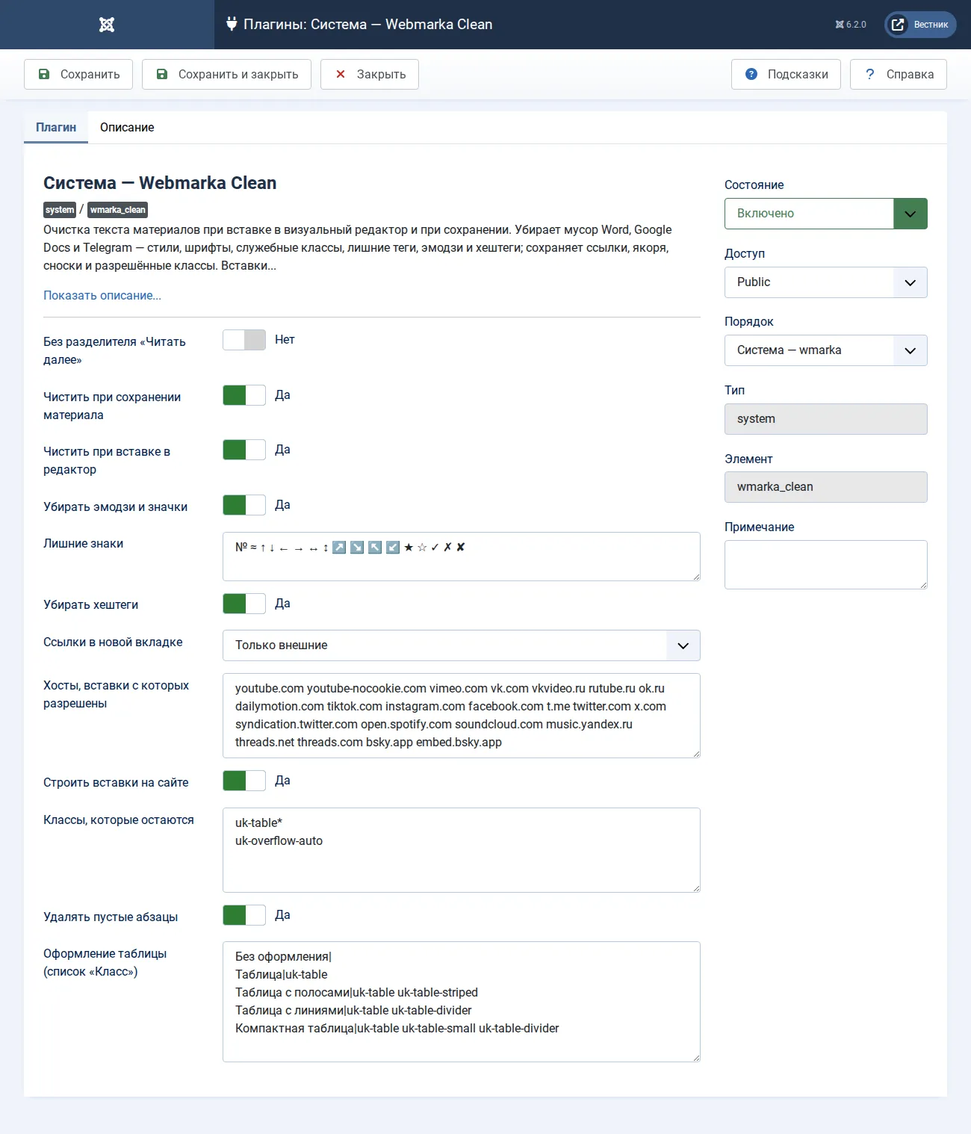
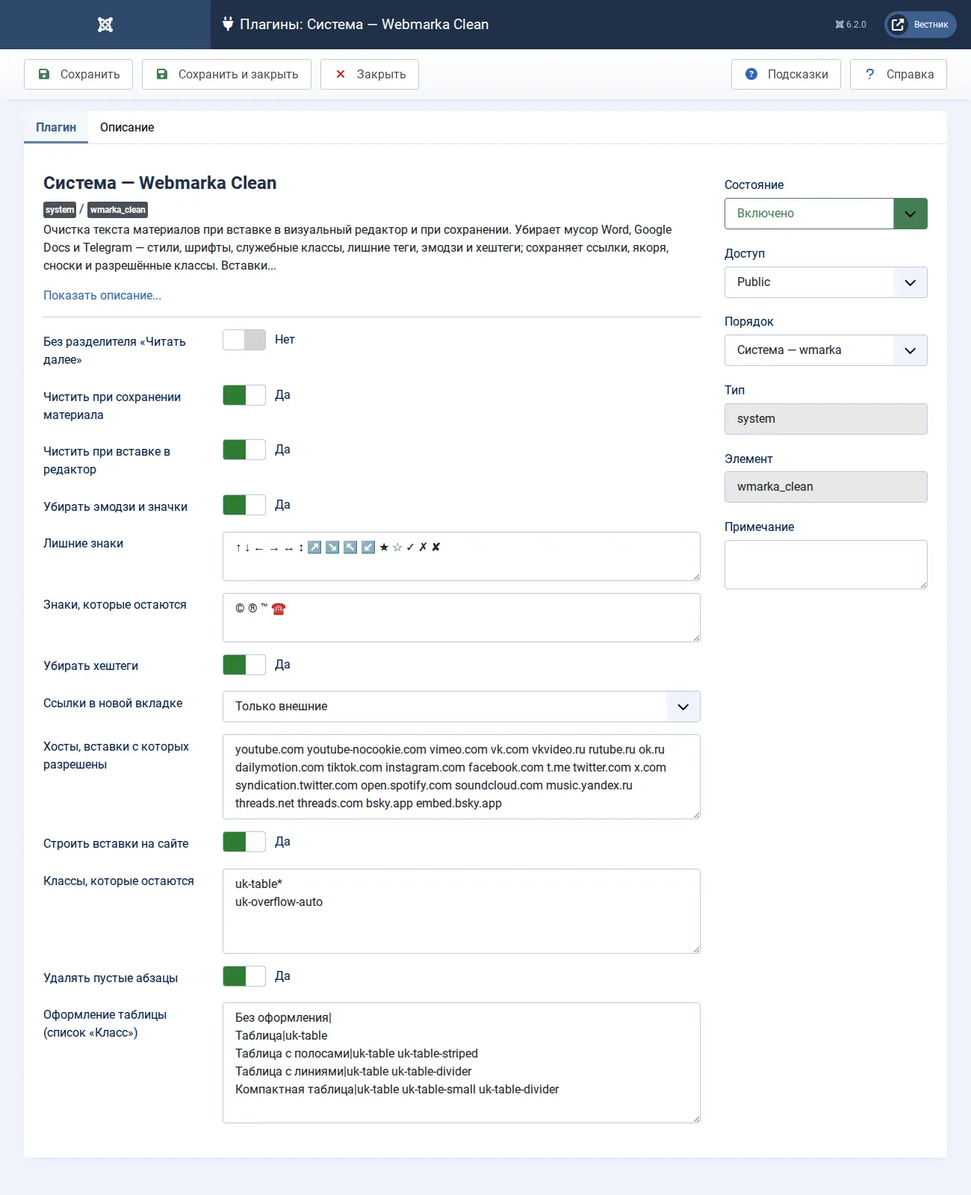
Webmarka Clean 1.0.1: знаки, которые остаются
Новая настройка «Знаки, которые остаются» (по умолчанию © ® ™); № и ≈ больше не в умолчаниях списка лишних знаков, нетронутый список 1.0.0 обновляется сам; очищенное поле «Лишние знаки» значит «только эмодзи».

Проверено на Joomla 6.2.0: тесты очистителя 27 из 27; вставка в TinyMCE с умолчаниями и со своим списком; обновление 1.0.0 → 1.0.1 на «Вестнике» и на стенде The Tenge (их список сохранён).

diff --git a/media/js/paste.js b/media/js/paste.js
@@ -21,7 +21,12 @@
   const embedHosts = String(options.embedHosts || 'youtube.com youtube-nocookie.com vimeo.com vk.com vkvideo.ru rutube.ru ok.ru dailymotion.com tiktok.com instagram.com facebook.com t.me twitter.com x.com syndication.twitter.com open.spotify.com soundcloud.com music.yandex.ru threads.net threads.com bsky.app embed.bsky.app')
     .toLowerCase().split(/[\s,]+/).filter(Boolean);
   const SOCIAL = ['twitter-tweet', 'instagram-media', 'tiktok-embed', 'text-post-media', 'bluesky-embed'];
-  const extraSymbols = typeof options.extra === 'string' ? options.extra : '№ ≈ ↑ ↓ ← → ↔ ↕ ↗ ↘ ↖ ↙ ★ ☆ ✓ ✗ ✘';
+  const extraSymbols = typeof options.extra === 'string' ? options.extra : '↑ ↓ ← → ↔ ↕ ↗ ↘ ↖ ↙ ★ ☆ ✓ ✗ ✘';
+  /** Знаки, которые остаются (как WordClean::protect): на время очистки — символ частной области Unicode, потом обратно; «©» → «©» */
+  const KEEP = (typeof options.keepSymbols === 'string' ? options.keepSymbols : '© ® ™')
+    .split(/\s+/).map((t) => t.replace(/[\uFE0E\uFE0F]/g, '')).filter((t, i, a) => t && a.indexOf(t) === i)
+    .sort((a, b) => [...b].length - [...a].length)
+    .map((t, i) => [new RegExp(t.replace(/[.*+?^${}()|[\]\\]/g, '\\$&') + '[\\uFE0E\\uFE0F]?', 'gu'), String.fromCodePoint(0xF0000 + i), t]);
 
   const UNWRAP = new Set(['SPAN', 'FONT', 'CENTER', 'BIG', 'TT', 'NOBR', 'BDO', 'U', 'TG-EMOJI', 'TG-SPOILER']);
   const BLOCK = new Set(['P', 'DIV', 'UL', 'OL', 'LI', 'TABLE', 'BLOCKQUOTE', 'H1', 'H2', 'H3', 'H4', 'H5', 'H6', 'HR', 'PRE', 'FIGURE', 'SECTION', 'ARTICLE', 'ASIDE', 'DL']);
@@ -72,6 +77,7 @@
       return text;
     }
     const orig = text;
+    KEEP.forEach(([re, ph]) => { text = text.replace(re, ph); });
     text = text.replace(EMOJI_RE, '').replace(/[\uFE0E\uFE0F\u200D\u20E3\u{E0020}-\u{E007F}]/gu, '');
     if (EXTRA_RE) {
       text = text.replace(EXTRA_RE, '');
@@ -83,6 +89,7 @@
     if (withMarks && stripHashtags && MARK_RE) {
       text = text.replace(MARK_RE, '');
     }
+    KEEP.forEach(([, ph, t]) => { text = text.split(ph).join(t); });
     if (text === orig) {
       return text;
     }

diff --git a/src/Cleaner/WordClean.php b/src/Cleaner/WordClean.php
@@ -28,7 +28,13 @@ namespace Webmarka\Plugin\System\Clean\Cleaner;
 final class WordClean
 {
     /** Лишние знаки по умолчанию: через пробел; меняется в настройках плагина */
-    public const DEFAULT_EXTRA = '№ ≈ ↑ ↓ ← → ↔ ↕ ↗ ↘ ↖ ↙ ★ ☆ ✓ ✗ ✘';
+    public const DEFAULT_EXTRA = '↑ ↓ ← → ↔ ↕ ↗ ↘ ↖ ↙ ★ ☆ ✓ ✗ ✘';
+
+    /**
+     * Знаки, которые остаются всегда — и как эмодзи, и из списка лишних знаков: через пробел; меняется в настройках плагина.
+     * © ® ™ Unicode считает пиктограммами, а в тексте это знаки авторского права и товарных марок.
+     */
+    public const DEFAULT_KEEP = '© ® ™';
 
     /** Хосты, вставки с которых разрешены (iframe и метки tm-embed): суффикс домена, через пробел */
     public const DEFAULT_EMBED_HOSTS = 'youtube.com youtube-nocookie.com vimeo.com vk.com vkvideo.ru rutube.ru ok.ru dailymotion.com tiktok.com instagram.com facebook.com t.me twitter.com x.com syndication.twitter.com open.spotify.com soundcloud.com music.yandex.ru threads.net threads.com bsky.app embed.bsky.app';
@@ -76,6 +82,9 @@ final class WordClean
     /** @var array{linkMode: string, siteHost: string, embedHosts: string} */
     private array $opt;
 
+    /** Знаки, которые остаются (DEFAULT_KEEP или настройка сайта) */
+    private string $keepSymbols;
+
     /** В этом тексте убирались значки: после снятия тегов подчищаются пробелы у знаков препинания */
     private bool $symbolsSeen = false;
 
@@ -94,7 +103,8 @@ final class WordClean
         array $options = []
     ) {
         // linkMode: all — все ссылки, кроме «#якорь», mailto и tel, открываются в новой вкладке; external — только внешние; off — не трогать
-        $this->opt = $options + ['linkMode' => 'all', 'siteHost' => '', 'embedHosts' => self::DEFAULT_EMBED_HOSTS];
+        $this->opt = $options + ['linkMode' => 'all', 'siteHost' => '', 'embedHosts' => self::DEFAULT_EMBED_HOSTS, 'keepSymbols' => self::DEFAULT_KEEP];
+        $this->keepSymbols = (string) $this->opt['keepSymbols'];
         $this->keep  = array_map(
             static fn (string $g): string => '~^' . str_replace('\*', '[a-z0-9_-]*', preg_quote(trim($g), '~')) . '$~i',
             array_filter(array_map('trim', $keepClasses))
@@ -111,7 +121,7 @@ final class WordClean
         }
 
         if (!str_contains($html, '<')) {
-            return $this->stripEmoji ? trim(self::stripSymbols($html, true, $this->extra, $this->hashtags)) : $html;
+            return $this->stripEmoji ? trim(self::stripSymbols($html, true, $this->extra, $this->hashtags, true, $this->keepSymbols)) : $html;
         }
 
         // 0. вставки соцсетей: iframe разрешённых хостов и виджет Telegram → безопасная метка tm-embed; остальные iframe убираются
@@ -251,6 +261,35 @@ final class WordClean
     }
 
     /**
+     * Знаки из списка «остаются» на время очистки подменяются символами частной области Unicode (U+F0000…), которых не касается ни одно правило,
+     * и потом возвращаются. Вариант эмодзи «©» сводится к самому знаку «©».
+     *
+     * @param   array  $saved  подмены: символ частной области => знак
+     */
+    private static function protect(string $text, string $keep, array &$saved): string
+    {
+        $tokens = [];
+
+        foreach (preg_split('~\s+~u', trim($keep)) ?: [] as $t) {
+            $t = preg_replace('~[\x{FE0E}\x{FE0F}]~u', '', $t) ?? $t;
+
+            if ($t !== '' && !\in_array($t, $tokens, true)) {
+                $tokens[] = $t;
+            }
+        }
+
+        usort($tokens, static fn (string $a, string $b): int => mb_strlen($b) <=> mb_strlen($a));   // длинная последовательность раньше своей части
+
+        foreach ($tokens as $i => $t) {
+            $ph   = mb_chr(0xF0000 + $i, 'UTF-8');
+            $text = preg_replace('~' . preg_quote($t, '~') . '[\x{FE0E}\x{FE0F}]?~u', $ph, $text) ?? $text;
+            $saved[$ph] = $t;
+        }
+
+        return $text;
+    }
+
+    /**
      * Строка без эмодзи и лишних значков. Пробелы вокруг убранного знака сводятся к одному; перед знаками препинания и после открывающих скобок
      * лишний пробел убирается. Строка без изменений возвращается как есть.
      *
@@ -260,14 +299,16 @@ final class WordClean
      * @param   bool    $tails     применять правило «в конце — целиком» к этой строке: верно, когда строка — весь абзац (заголовок, описание); для узла текста
      *                             внутри абзаца решает проход по блокам (hashtagTails), узел не знает, что стоит рядом
      */
-    public static function stripSymbols(string $text, bool $emoji = true, string $extra = self::DEFAULT_EXTRA, bool $hashtags = true, bool $tails = true): string
+    public static function stripSymbols(string $text, bool $emoji = true, string $extra = self::DEFAULT_EXTRA, bool $hashtags = true, bool $tails = true, string $keep = self::DEFAULT_KEEP): string
     {
         if (!$emoji) {
             return $text;
         }
 
-        $orig = $text;
-        $text = preg_replace(self::emojiRegex(), '', $text) ?? $text;
+        $orig  = $text;
+        $saved = [];
+        $text  = self::protect($text, $keep, $saved);
+        $text  = preg_replace(self::emojiRegex(), '', $text) ?? $text;
         $text = preg_replace('~[\x{FE0E}\x{FE0F}\x{200D}\x{20E3}\x{E0020}-\x{E007F}]~u', '', $text) ?? $text;   // селекторы, оставшиеся без эмодзи
 
         $tokens = array_values(array_filter(preg_split('~\s+~u', trim($extra)) ?: [], static fn ($t) => $t !== ''));
@@ -290,6 +331,10 @@ final class WordClean
             $text = preg_replace('~(?<![\p{L}\p{N}_&/])#(?=[\p{L}\p{N}_])~u', '', $text) ?? $text;
         }
 
+        if ($saved) {
+            $text = strtr($text, $saved);
+        }
+
         if ($text === $orig) {
             return $text;
         }
@@ -306,7 +351,7 @@ final class WordClean
     {
         foreach (iterator_to_array($xp->query('.//text()', $root)) as $t) {
             $v = (string) $t->nodeValue;
-            $n = self::stripSymbols($v, true, $this->extra, false);   // хештеги — отдельным проходом по блокам (hashtagTails, hashtagMarks)
+            $n = self::stripSymbols($v, true, $this->extra, false, true, $this->keepSymbols);   // хештеги — отдельным проходом по блокам (hashtagTails, hashtagMarks)
 
             if ($n === $v) {
                 continue;
@@ -1019,7 +1064,7 @@ final class WordClean
                 $val = trim((string) $el->getAttribute($name));
 
                 if ($this->stripEmoji && \in_array($lower, ['alt', 'title'], true) && $val !== '') {
-                    $el->setAttribute($name, trim(self::stripSymbols($val, true, $this->extra, false)));
+                    $el->setAttribute($name, trim(self::stripSymbols($val, true, $this->extra, false, true, $this->keepSymbols)));
                     $val = trim((string) $el->getAttribute($name));
                 }
 

diff --git a/src/Extension/Clean.php b/src/Extension/Clean.php
@@ -64,7 +64,8 @@ final class Clean extends CMSPlugin implements SubscriberInterface
         }
 
         $emoji   = (int) $this->params->get('strip_emoji', 1) === 1;
-        $extra   = (string) $this->params->get('extra_symbols', WordClean::DEFAULT_EXTRA);
+        $extra   = $this->text('extra_symbols', WordClean::DEFAULT_EXTRA);
+        $keep    = $this->text('keep_symbols', WordClean::DEFAULT_KEEP);
         $tags    = (int) $this->params->get('strip_hashtags', 1) === 1;
         $cleaner = new WordClean($this->keep(), (int) $this->params->get('drop_empty_p', 1) === 1, $emoji, $extra, $tags, $this->cleanerOptions());
 
@@ -72,7 +73,7 @@ final class Clean extends CMSPlugin implements SubscriberInterface
         if ($emoji) {
             foreach (['title', 'metadesc'] as $field) {
                 if (isset($item->$field) && \is_string($item->$field) && $item->$field !== '') {
-                    $clean = trim(WordClean::stripSymbols($item->$field, true, $extra, $tags));
+                    $clean = trim(WordClean::stripSymbols($item->$field, true, $extra, $tags, true, $keep));
 
                     if ($clean !== '' || $field === 'metadesc') {
                         $item->$field = $clean;
@@ -124,7 +125,7 @@ final class Clean extends CMSPlugin implements SubscriberInterface
         }
 
         $doc = $app->getDocument();
-        $doc->addScriptOptions('wmarka_clean', ['keep' => $this->keep(), 'tables' => $tables, 'dropEmpty' => (int) $this->params->get('drop_empty_p', 1) === 1, 'emoji' => (int) $this->params->get('strip_emoji', 1) === 1, 'extra' => (string) $this->params->get('extra_symbols', WordClean::DEFAULT_EXTRA), 'hashtags' => (int) $this->params->get('strip_hashtags', 1) === 1] + $this->cleanerOptions());
+        $doc->addScriptOptions('wmarka_clean', ['keep' => $this->keep(), 'tables' => $tables, 'dropEmpty' => (int) $this->params->get('drop_empty_p', 1) === 1, 'emoji' => (int) $this->params->get('strip_emoji', 1) === 1, 'extra' => $this->text('extra_symbols', WordClean::DEFAULT_EXTRA), 'hashtags' => (int) $this->params->get('strip_hashtags', 1) === 1] + $this->cleanerOptions());
         $doc->getWebAssetManager()->registerAndUseScript('plg_system_wmarka_clean.paste', 'plg_system_wmarka_clean/paste.js', [], ['defer' => true]);
     }
 
@@ -169,10 +170,19 @@ final class Clean extends CMSPlugin implements SubscriberInterface
             'linkMode'   => \in_array($mode, ['all', 'external', 'off'], true) ? $mode : 'external',
             'siteHost'   => (string) Uri::getInstance()->getHost(),
             'embedHosts' => trim((string) $this->params->get('embed_hosts', '')) ?: WordClean::DEFAULT_EMBED_HOSTS,
+            'keepSymbols' => $this->text('keep_symbols', WordClean::DEFAULT_KEEP),
         ];
     }
 
     /** @return string[] */
+    /** A text setting as saved: an emptied field stays empty (Registry::get would give the default back). */
+    private function text(string $key, string $default): string
+    {
+        $all = $this->params->toArray();
+
+        return \array_key_exists($key, $all) ? (string) $all[$key] : $default;
+    }
+
     private function keep(): array
     {
         $list = array_values(array_filter(array_map('trim', preg_split('~\R~u', (string) $this->params->get('keep_classes', "uk-table*\nuk-overflow-auto")) ?: [])));

diff --git a/tests/test_cleaner.php b/tests/test_cleaner.php
@@ -39,6 +39,16 @@ foreach ($cases as [$name, $in, $exp]) {
 }
 $check('заголовок без эмодзи', WordClean::stripSymbols('🔥 Курс тенге укрепился ✅', true, WordClean::DEFAULT_EXTRA, true), ['has' => ['Курс тенге укрепился'], 'not' => ['🔥', '✅']]);
 
+$keepAll = '₸ ₽ $ € £ ¥ ₴ ₼ ₾ ₺ ₹ ⃀ № § ° ± × ≈ ‰ ½ ² © ® ™';
+$check('знаки: валюты, №, §, меры, © ® ™ остаются; ☎, эмодзи и ★ уходят', WordClean::stripSymbols($keepAll . ' ☎ 🔥 ★', true, WordClean::DEFAULT_EXTRA, false, false), ['has' => explode(' ', $keepAll), 'not' => ['☎', '🔥', '★']]);
+$check('знаки: «©» становится «©»', WordClean::stripSymbols('Фото © ТАСС', true, WordClean::DEFAULT_EXTRA, false, false), ['has' => ['Фото © ТАСС'], 'not' => ["\u{FE0F}"]]);
+$check('знаки: свой список «остаются» — ☎ ✉ ★', WordClean::stripSymbols('☎ +7 701 000 00 00, ✉ info@site.kz, оценка ★★★★ 🔥', true, WordClean::DEFAULT_EXTRA, false, false, '☎ ✉ ★'), ['has' => ['☎ +7', '✉ info', '★★★★'], 'not' => ['🔥']]);
+$check('знаки: явный список лишних (как у The Tenge) убирает № и ≈, © остаётся', WordClean::stripSymbols('Приказ № 15: рост ≈ 5 %, © ТАСС', true, '№ ≈ ↑', false, false), ['has' => ['Приказ 15', '© ТАСС'], 'not' => ['№', '≈']]);
+$check('знаки: пустой список «остаются» — © уходит', WordClean::stripSymbols('© ТАСС', true, WordClean::DEFAULT_EXTRA, false, false, ''), ['not' => ['©']]);
+$check('знаки: «остаются» сильнее «лишних»', WordClean::stripSymbols('Оценка ★★★', true, '★', false, false, '★'), ['has' => ['★★★']]);
+$c2 = new WordClean(['uk-table*'], true, true, WordClean::DEFAULT_EXTRA, true, ['keepSymbols' => '☎']);
+$check('знаки: настройка доходит до очистки текста', $c2->clean('<p>☎ 8 800 000 00 00 🔥</p>'), ['has' => ['☎ 8 800'], 'not' => ['🔥']]);
+
 [$html] = Renderer::render($c->clean('<iframe width="560" height="315" src="https://www.youtube.com/embed/abc123"></iframe>'), WordClean::DEFAULT_EMBED_HOSTS);
 $check('сайт: метка YouTube → iframe', $html, ['has' => ['<iframe src="https://www.youtube.com/embed/abc123"', 'aspect-ratio:560 / 315', 'loading="lazy"'], 'not' => ['tm-embed']]);
 [$html] = Renderer::render($c->clean('<script async src="https://telegram.org/js/telegram-widget.js?22" data-telegram-post="durov/123"></script>'), WordClean::DEFAULT_EMBED_HOSTS);

diff --git a/script.php b/script.php
@@ -18,6 +18,10 @@ use Joomla\Database\DatabaseInterface;
  */
 class PlgSystemWmarka_cleanInstallerScript
 {
+    /** The «extra symbols» default of 1.0.0 and the one since 1.0.1 (№ and ≈ are no longer removed by default). */
+    private const OLD_EXTRA = '№ ≈ ↑ ↓ ← → ↔ ↕ ↗ ↘ ↖ ↙ ★ ☆ ✓ ✗ ✘';
+    private const NEW_EXTRA = '↑ ↓ ← → ↔ ↕ ↗ ↘ ↖ ↙ ★ ☆ ✓ ✗ ✘';
+
     private const KEYS = ['merge_readmore', 'enabled_save', 'enabled_paste', 'strip_emoji', 'extra_symbols', 'strip_hashtags',
         'link_target', 'embed_hosts', 'keep_classes', 'drop_empty_p', 'table_classes'];
 
@@ -34,7 +38,7 @@ class PlgSystemWmarka_cleanInstallerScript
 
     public function postflight($type, $parent): void
     {
-        if ($type !== 'install') {
+        if ($type !== 'install' && $type !== 'update') {
             return;
         }
 
@@ -53,6 +57,21 @@ class PlgSystemWmarka_cleanInstallerScript
         $self = $find('wmarka_clean');
 
         if (!$self) {
+            return;
+        }
+
+        if ($type === 'update') {
+            // The 1.0.0 default saved on install moves to the new default; a list someone changed, or one carried over from tengeclean, stays.
+            $params = json_decode((string) $self->params, true) ?: [];
+
+            if (($params['extra_symbols'] ?? null) === self::OLD_EXTRA && !$find('tengeclean')) {
+                $params['extra_symbols'] = self::NEW_EXTRA;
+                $json = json_encode($params, JSON_UNESCAPED_UNICODE | JSON_UNESCAPED_SLASHES);
+                $db->setQuery($db->createQuery()->update($db->quoteName('#__extensions'))
+                    ->set($db->quoteName('params') . ' = ' . $db->quote($json))
+                    ->where($db->quoteName('extension_id') . ' = ' . (int) $self->extension_id))->execute();
+            }
+
             return;
         }
 

diff --git a/README.kk.md b/README.kk.md
@@ -33,7 +33,7 @@ Word пен Telegram-нан қойылған мәтін:
 
 - **Кеңсе бағдарламаларының қоқысы.** Word түсініктемелері мен шартты блоктары, `<o:p>` сияқты тегтер, `span` пен `font` (мазмұны қалады; стильдегі қалың және көлбеу қаріп `strong` пен `em` болады), барлық `style`, `lang`, `align`, қызметтік `id` және рұқсат етілгеннен басқа барлық кластар. Word тізімдері нағыз `ul` мен `ol` болады.
 - **Абзацтар.** `<br>` арқылы бөлінген жолдар жеке абзац болады, бос абзацтар мен артық бос орындар алынады.
-- **Эмодзи, белгішелер мен хэштегтер** — мәтіннен, тақырыптан және мета-сипаттамадан. Теңге белгісі ₸, сан алдындағы минус, °C, тізім белгілері мен жалғыз «*» ескертпе белгісі қалады.
+- **Эмодзи, белгішелер мен хэштегтер** — мәтіннен, тақырыптан және мета-сипаттамадан. Валюта белгілері (₸ ₽ $ € £ ¥ және басқалар), №, §, градус, ± × ≈ ‰, бөлшектер, © ® ™, сан алдындағы минус, тізім белгілері мен жалғыз «*» ескертпе белгісі қалады. «Қалатын белгілер» тізімін әр сайт өзі толықтырады — мысалы, байланыс үшін ☎ пен ✉, рейтинг үшін ★.
 - **Сілтемелер.** Якорьлар мен ескертпелер сақталады; сыртқы сілтемелер қалауыңызша жаңа қойындыда ашылады.
 - **Ендірмелер.** Рұқсат етілген хосттардың iframe-і (YouTube, Vimeo, VK, Rutube, TikTok, Instagram, Facebook, Telegram, X, Spotify және басқалар) мен Telegram жазбасының виджеті белгі ретінде сақталады; басқа хосттардың iframe-і жойылады. Сайтта белгі кешіктіріп жүктелетін бейімделгіш iframe-ге айналады, ал әлеуметтік желі дәйексөздеріне сол желінің скрипті тек осындай дәйексөзі бар беттерде қосылады.
 
@@ -58,8 +58,9 @@ Word пен Telegram-нан қойылған мәтін:
 
 - **Мақаланы сақтағанда тазалау** — Серверде дәл сол ережелер жұмыс істейді: «Код» арқылы, басқа редактордан қойғанда, импорт кезінде, API мен ассистенттер арқылы түзеткенде де.
 - **Редакторға қойғанда тазалау** — Word немесе Telegram-нан қойылған мәтінді редактор бірден қоқыссыз көрсетеді: көрінгені сақталатынымен бірдей.
-- **Эмодзи мен белгішелерді алып тастау** — Барлық эмодзи (смайликтер, ым-ишара, заттар, жалаушалар, жақтаудағы сандар, ✅ ❗ ⚡ © және Unicode-тың басқа пиктограммалары), төмендегі тізімдегі белгілер және қатар тұрған «**» мақаланың мәтінінен, тақырыбынан және сипаттамасынан — редакторға қойғанда да, сақтағанда да алынады. Теңге белгісі ₸, тізім белгілері (● ◉ ⬤ • және абзац басындағы сызықша), жалғыз «*» (ескертпе белгісі), сан алдындағы минус «−» және °C қалады.
-- **Артық белгілер** — Эмодзиден бөлек мәтіннен алынатын белгілер, бос орын арқылы. Әдепкіде: № ≈ ↑ ↓ ← → ↔ ↕ ↗ ↘ ↖ ↙ көрсеткілері, ★ ☆ ✓ ✗ ✘. Минус «−» пен °C бұл тізімге кірмейді: минуссыз сан таңбасынан айырылады (−0,25 саны 0,25 болып қалады), ал °C — өлшем бірлігі.
+- **Эмодзи мен белгішелерді алып тастау** — Барлық эмодзи (смайликтер, ым-ишара, заттар, жалаушалар, жақтаудағы сандар, ✅ ❗ ⚡ және Unicode-тың басқа пиктограммалары), «Артық белгілер» тізіміндегі белгілер және қатар тұрған «**» мақаланың мәтінінен, тақырыбынан және сипаттамасынан — редакторға қойғанда да, сақтағанда да алынады. Валюта белгілері (₸ ₽ $ € £ ¥ және басқалар), №, §, градус °, ± × ≈ ‰, бөлшектер, тізім белгілері (● ◉ ⬤ • және абзац басындағы сызықша), жалғыз «*» (ескертпе белгісі), сан алдындағы минус «−» және «Қалатын белгілер» тізіміндегі белгілер қалады.
+- **Артық белгілер** — Эмодзиден бөлек мәтіннен алынатын белгілер, бос орын арқылы. Әдепкіде — ↑ ↓ ← → ↔ ↕ ↗ ↘ ↖ ↙ көрсеткілері және жазбалардағы ★ ☆ ✓ ✗ ✘ белгішелері. Өріс бос болса, тек эмодзи алынады.
+- **Қалатын белгілер** — Ешқашан алынбайтын белгілер — эмодзи ретінде де, артық белгілер тізімінен де; бос орын арқылы. Әдепкіде © ® ™: Unicode оларды пиктограмма деп санайды, ал мәтінде бұлар авторлық құқық пен тауар белгісінің таңбалары. Мысалы, байланыс үшін ☎ ✉, рейтинг үшін ★ қосыңыз. Валюта белгілері, №, §, градус, ± × ≈ ‰ және бөлшектер эмодзи емес, олар бәрібір қалады. Мәтіндегі «©» «©» болады.
 - **Хэштегтерді алып тастау** — Мәтін соңындағы хэштегтер мен тек хэштегтерден тұратын жолдар толық алынады; сөйлем ішінде тек «#» алынады да, сөз қалады.
 - **Сілтемелер жаңа қойындыда** — Мақала мәтініндегі сілтемелерге target=_blank және rel=noopener қосылады. «#Якорьлар» (ескертпелер, мазмұн), mailto мен tel сол қойындыда қалады.
 - **Ендіруге рұқсат етілген хосттар** — Видео мен әлеуметтік желі ендірмелері (YouTube, TikTok, Instagram, Facebook, Telegram, X, Threads және басқалар): осы хосттардың (бос орын арқылы, субдомендер де кіреді) мекенжайы бар iframe мәтінде Joomla сүзгілері өткізетін қауіпсіз белгі ретінде сақталады, ал сайтта плагин одан нағыз ендірме құрады. Басқа хосттардың iframe-і жойылады.

diff --git a/README.ru.md b/README.ru.md
@@ -31,7 +31,7 @@
 
 - **Мусор офисных программ.** Комментарии и условные блоки Word, теги вроде `<o:p>`, `span` и `font` (содержимое остаётся; жирный и курсив из стилей становятся `strong` и `em`), все `style`, `lang`, `align`, служебные `id` и все классы, кроме разрешённых. Списки Word становятся настоящими `ul` и `ol`.
 - **Абзацы.** Строки через `<br>` становятся отдельными абзацами, пустые абзацы и лишние пробелы уходят.
-- **Эмодзи, значки и хештеги** — из текста, заголовка и мета-описания. Знак тенге ₸, минус перед числом, °C, знаки списков и одиночная «*» сноски остаются.
+- **Эмодзи, значки и хештеги** — из текста, заголовка и мета-описания. Остаются знаки валют (₸ ₽ $ € £ ¥ и другие), №, §, градус, ± × ≈ ‰, дроби, © ® ™, минус перед числом, знаки списков и одиночная «*» сноски. Список «Знаки, которые остаются» каждый сайт дополняет сам — например, ☎ и ✉ для контактов или ★ для рейтингов.
 - **Ссылки.** Якоря и сноски сохраняются; внешние ссылки по выбору открываются в новой вкладке.
 - **Вставки.** iframe разрешённых хостов (YouTube, Vimeo, VK, Rutube, TikTok, Instagram, Facebook, Telegram, X, Spotify и другие) и виджет поста Telegram хранятся меткой; iframe других хостов удаляются. На сайте метка становится адаптивным iframe с отложенной загрузкой, а для цитат соцсетей подключается скрипт площадки — только на тех страницах, где такая цитата есть.
 
@@ -56,8 +56,9 @@
 
 - **Чистить при сохранении материала** — Тот же набор правил на сервере: сработает и при вставке через «Код», из другого редактора, при импорте, и на правках через API и ассистентов.
 - **Чистить при вставке в редактор** — Редактор сразу показывает вставленный из Word или Telegram текст без мусора: то, что видно, совпадает с тем, что сохранится.
-- **Убирать эмодзи и значки** — Убираются все эмодзи (смайлы, жесты, предметы, флаги, цифры в рамке, ✅ ❗ ⚡ © и любые другие пиктограммы Unicode), знаки из списка ниже и «**» подряд — из текста, заголовка и описания материала, при вставке в редактор и при сохранении. Остаются знак тенге ₸, обозначения списков (● ◉ ⬤ • и тире в начале абзаца), одиночная «*» (знак сноски), минус «−» перед числом и °C.
-- **Лишние знаки** — Знаки, которые, кроме эмодзи, убираются из текста; через пробел. По умолчанию: № ≈ стрелки ↑ ↓ ← → ↔ ↕ ↗ ↘ ↖ ↙, ★ ☆ ✓ ✗ ✘. Минус «−» и °C сюда не включены: без минуса у числа пропадёт знак (−0,25 станет 0,25), а °C — единица измерения.
+- **Убирать эмодзи и значки** — Убираются все эмодзи (смайлы, жесты, предметы, флаги, цифры в рамке, ✅ ❗ ⚡ и любые другие пиктограммы Unicode), знаки из списка «Лишние знаки» и «**» подряд — из текста, заголовка и описания материала, при вставке в редактор и при сохранении. Остаются знаки валют (₸ ₽ $ € £ ¥ и другие), №, §, градус °, ± × ≈ ‰, дроби, обозначения списков (● ◉ ⬤ • и тире в начале абзаца), одиночная «*» (знак сноски), минус «−» перед числом и знаки из списка «Знаки, которые остаются».
+- **Лишние знаки** — Знаки, которые, кроме эмодзи, убираются из текста; через пробел. По умолчанию — стрелки ↑ ↓ ← → ↔ ↕ ↗ ↘ ↖ ↙ и значки ★ ☆ ✓ ✗ ✘ из постов. Пустое поле — убираются только эмодзи.
+- **Знаки, которые остаются** — Знаки, которые не убираются никогда — ни как эмодзи, ни из списка лишних знаков; через пробел. По умолчанию © ® ™: Unicode считает их пиктограммами, а в тексте это знаки авторского права и товарных марок. Допишите, например, ☎ ✉ для контактов или ★ для рейтингов. Знаки валют, №, §, градус, ± × ≈ ‰ и дроби эмодзи не считаются и остаются и так. «©» в тексте становится «©».
 - **Убирать хештеги** — Хештеги в конце текста и строки из одних хештегов убираются целиком; внутри предложения (рубрику #ЧитаемКниги — …) убирается только «#», слово остаётся.
 - **Ссылки в новой вкладке** — В тексте материала ссылки получают target=_blank и rel=noopener. «#Якоря» (сноски, оглавление), mailto и tel остаются в той же вкладке.
 - **Хосты, вставки с которых разрешены** — Вставки соцсетей и видео (YouTube, TikTok, Instagram, Facebook, Telegram, X, Threads и другие): iframe с адресом этих хостов (через пробел, поддомены включены) сохраняется в тексте безопасной меткой — её пропускают фильтры текста Joomla, — а на сайте плагин строит из неё настоящую вставку. iframe с других хостов удаляется.

diff --git a/README.md b/README.md
@@ -31,7 +31,7 @@ In the editor right after pasting — exactly what is saved:
 
 - **Office clutter.** Word comments and conditional blocks, tags such as `<o:p>`, `span` and `font` (content kept; bold and italic from styles become `strong` and `em`), every `style`, `lang`, `align`, service `id` and every class except the allowed ones. Word lists become real `ul` and `ol`.
 - **Paragraphs.** Lines separated by `<br>` become paragraphs; empty paragraphs and extra spaces go.
-- **Emoji, symbols and hashtags** — from the text, title and meta description. The tenge sign ₸, the minus before a number, °C, list markers and a single footnote «*» stay.
+- **Emoji, symbols and hashtags** — from the text, title and meta description. Currency signs (₸ ₽ $ € £ ¥ and others), №, §, the degree sign, ± × ≈ ‰, fractions, © ® ™, the minus before a number, list markers and a single footnote «*» stay. Each site extends the «Symbols to keep» list itself — for example ☎ and ✉ for contacts or ★ for ratings.
 - **Links.** Anchors and footnotes are kept; external links can open in a new tab.
 - **Embeds.** Iframes of allowed hosts (YouTube, Vimeo, VK, Rutube, TikTok, Instagram, Facebook, Telegram, X, Spotify and others) and the Telegram post widget become markers; iframes of other hosts are removed. On the site a marker becomes a responsive, lazy-loaded iframe, and social quotes get their platform script — only on pages that have such a quote.
 
@@ -56,8 +56,9 @@ System → Plugins → System — Webmarka Clean.
 
 - **Clean on save** — The same rules on the server: they also apply to text inserted through «Code», from another editor, on import, and to edits made through the API and assistants.
 - **Clean on paste** — The editor shows text pasted from Word or Telegram already clean: what you see is what will be saved.
-- **Remove emoji and symbols** — All emoji (faces, gestures, objects, flags, keycaps, ✅ ❗ ⚡ © and any other Unicode pictograph), the symbols listed below and repeated «**» are removed from the text, title and description of an article, on paste and on save. The tenge sign ₸, list markers (● ◉ ⬤ • and a dash at the start of a paragraph), a single «*» (footnote mark), the minus «−» before a number and °C stay.
-- **Extra symbols** — Symbols removed besides emoji, separated by spaces. By default: № ≈ arrows ↑ ↓ ← → ↔ ↕ ↗ ↘ ↖ ↙, ★ ☆ ✓ ✗ ✘. The minus «−» and °C are not included: without the minus a number loses its sign (−0.25 becomes 0.25), and °C is a unit.
+- **Remove emoji and symbols** — All emoji (faces, gestures, objects, flags, keycaps, ✅ ❗ ⚡ and any other Unicode pictograph), the symbols of the «Extra symbols» list and repeated «**» are removed from the text, title and description of an article, on paste and on save. Currency signs (₸ ₽ $ € £ ¥ and others), №, §, the degree sign °, ± × ≈ ‰, fractions, list markers (● ◉ ⬤ • and a dash at the start of a paragraph), a single «*» (footnote mark), the minus «−» before a number and the symbols of the «Symbols to keep» list stay.
+- **Extra symbols** — Symbols removed besides emoji, separated by spaces. By default the arrows ↑ ↓ ← → ↔ ↕ ↗ ↘ ↖ ↙ and the post decorations ★ ☆ ✓ ✗ ✘. Empty: only emoji are removed.
+- **Symbols to keep** — Symbols that are never removed — neither as emoji nor by the extra symbols list; separated by spaces. By default © ® ™: Unicode counts them as pictographs, while in text they are the copyright and trademark signs. Add, for example, ☎ ✉ for contacts or ★ for ratings. Currency signs, №, §, the degree sign, ± × ≈ ‰ and fractions are not emoji and stay anyway. «©» in the text becomes «©».
 - **Remove hashtags** — Hashtags at the end of the text and lines of hashtags only are removed entirely; inside a sentence only the «#» goes and the word stays.
 - **Links in a new tab** — Links in the article text get target=_blank and rel=noopener. «#Anchors» (footnotes, contents), mailto and tel stay in the same tab.
 - **Hosts allowed for embeds** — Video and social embeds (YouTube, TikTok, Instagram, Facebook, Telegram, X, Threads and others): an iframe of these hosts (space-separated, subdomains included) is stored in the text as a safe marker that Joomla text filters let through, and the plugin builds the real embed from it on the site. Iframes of other hosts are removed.

diff --git a/CHANGELOG.md b/CHANGELOG.md
@@ -1,5 +1,12 @@
 # Журнал изменений Webmarka Clean
 
+## 1.0.1 — 4 ноября 2026 года
+
+- **Знаки, которые остаются.** Новая настройка: знаки из этого списка не убираются ни как эмодзи, ни из списка лишних знаков. По умолчанию © ® ™ — Unicode считает их пиктограммами, и прежде они пропадали из подписей вроде «© ТАСС» и из названий марок. Каждый сайт дополняет список сам — например, ☎ и ✉ для контактов или ★ для рейтингов. «©» в тексте становится «©».
+- **№ и ≈ по умолчанию остаются:** их больше нет в умолчаниях списка лишних знаков. Сайтам, где этот список никто не менял, обновление само ставит новое умолчание; изменённый список и список, перенесённый с плагина The Tenge, остаются как были.
+- Знаки валют (₸ ₽ $ € £ ¥ и другие), §, градус, ± × ‰ и дроби оставались и прежде; теперь это сказано в описании настройки.
+- Очищенное поле «Лишние знаки» теперь значит «только эмодзи», а не возврат к умолчанию.
+
 ## 1.0.0 — 4 ноября 2026 года
 
 Первый открытый выпуск. В основе — плагин очистки текста сайта The Tenge (0.5.0), переделанный для любого сайта на Joomla 6.
